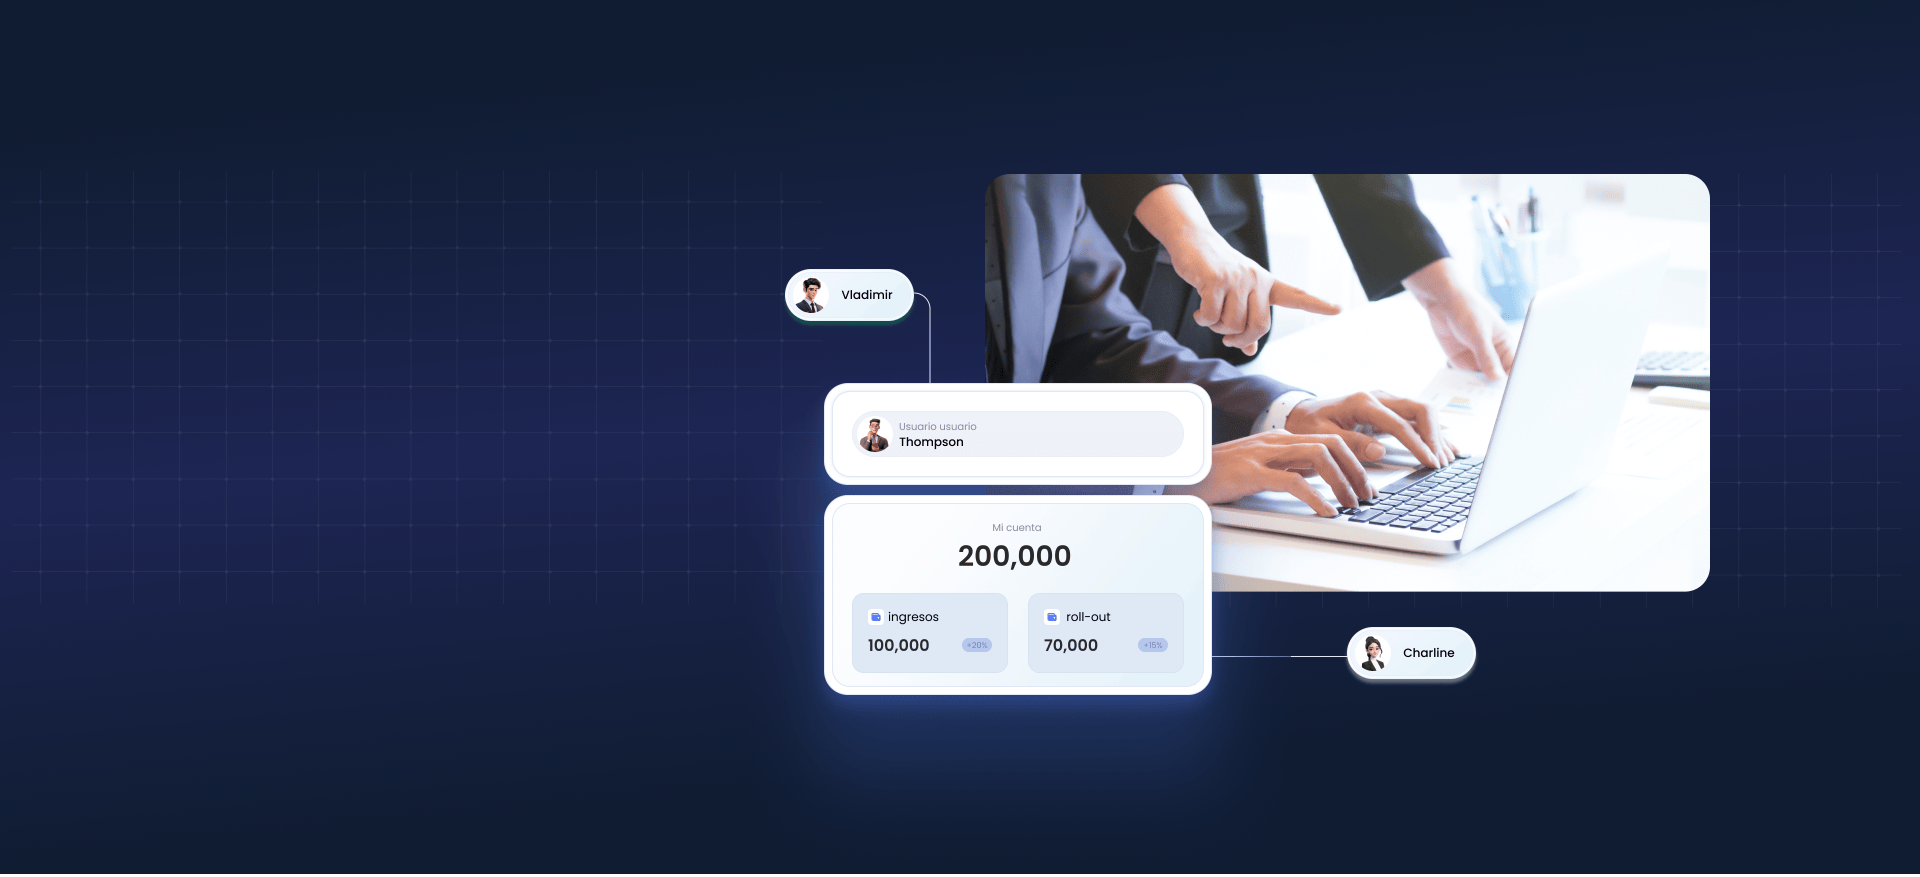
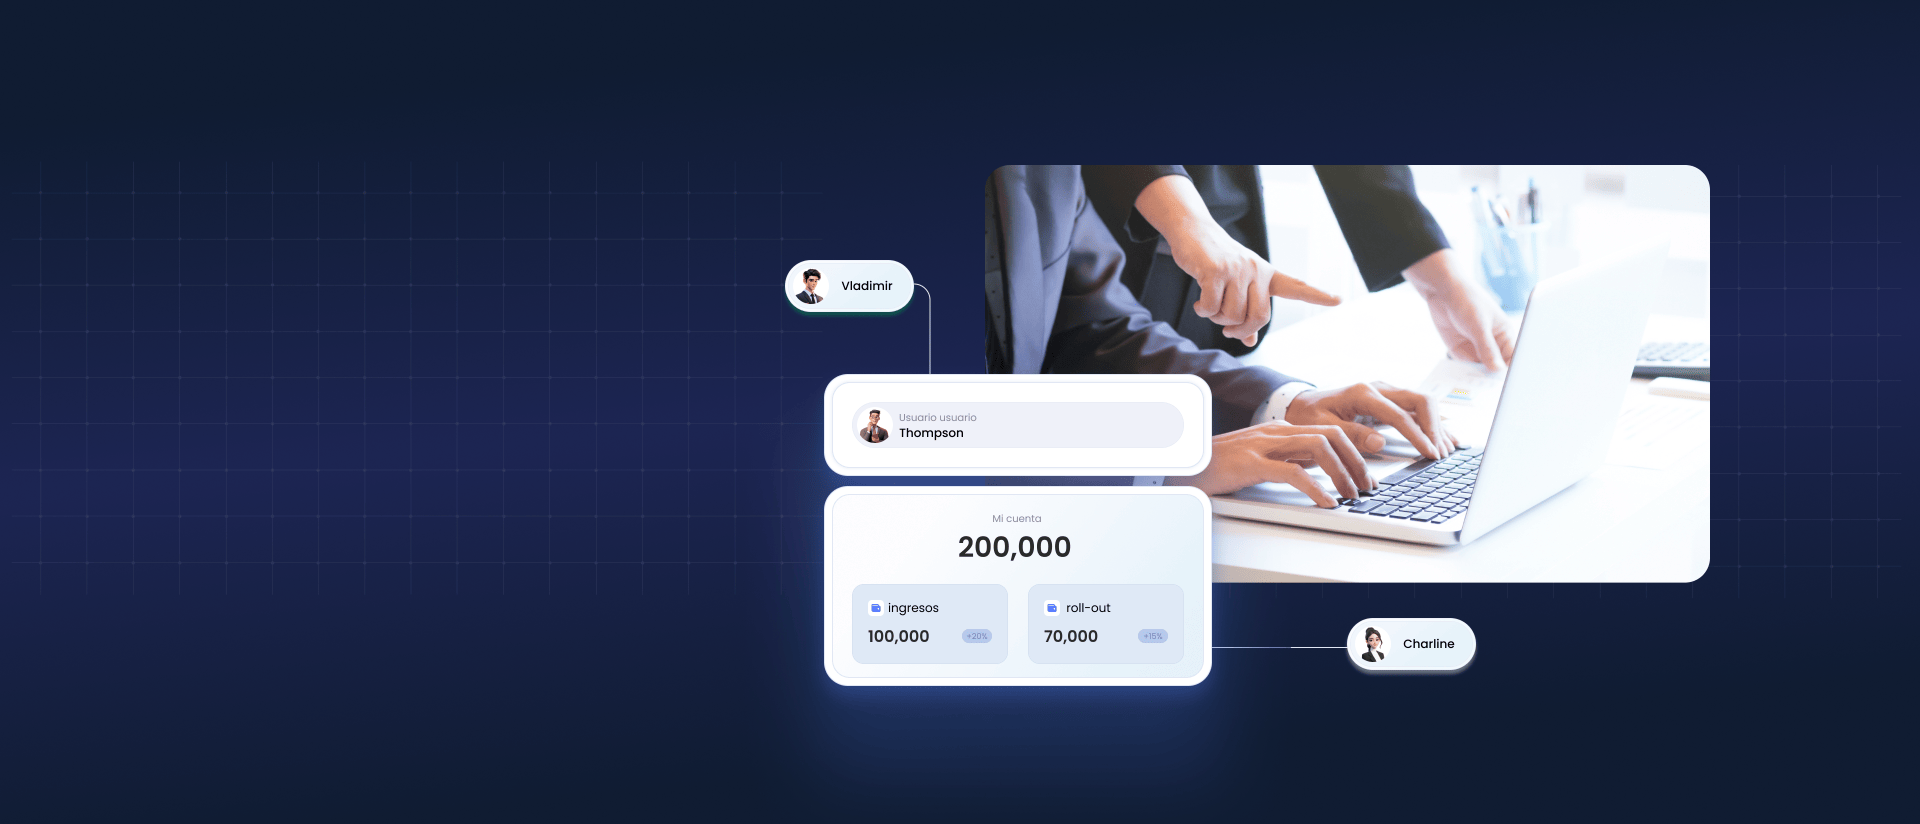
feat:picture

diff --git a/app/Payouts/page.tsx b/app/Payouts/page.tsx
@@ -640,7 +640,7 @@ export default function PayputsPage() {
               <div className="md:flex  md:gap-[41px] gap-[20px]">
                 <div className="md:max-w-[622px] md:max-h-[761px]">
                   <div className="md:min-h-[349px] md:max-h-[349px]  md:mb-[41px]  bg-[#F0F5FF] rounded-2xl px-[12px] lg:px-[61px] pt-[26px] lg:pt-[61px] pb-[20px] lg:pb-[69px] mb-[20px] text-[#000000]">
-                    <div className="font-medium text-[20px] md:text-[35px] md:leading-[36px]  lg:text-[34px] lg:leading-[43px]  xl:text-[60px] leading-[24px] xl:leading-[70px] mb-[1px] md:mb-[58px]">
+                    <div className="font-medium text-[20px] md:text-[35px] md:leading-[36px]  lg:text-[34px] lg:leading-[43px]  xl:text-[60px] leading-[24px] xl:leading-[70px] mb-[1px] md:mb-[58px] xl:mb-[30px]">
                       Faster Payouts, Lower Costs
                     </div>
                     <div className="text-[14px] md:text-[32px] leading-[24px] md:leading-[38px]  text-[#3B61B8]">

diff --git a/app/About/page.tsx b/app/About/page.tsx
@@ -181,11 +181,11 @@ export default function AboutPage() {
                   }}
                   isRequired
                   variant="bordered"
-                  errorMessage="Please enter your full Name"
+                  errorMessage="Please enter your full name"
                   label="Full Name"
                   labelPlacement="outside"
                   name="fullName"
-                  placeholder="Please enter your full Name"
+                  placeholder="Please enter your full name"
                   isClearable
                 />
                 <Input
@@ -298,7 +298,7 @@ export default function AboutPage() {
                   }}
                   isRequired
                   items={KnowData}
-                  label="How Did You Get To Know Us?*"
+                  label="How Did You Get To Know Us?"
                   labelPlacement="outside"
                   placeholder="Select"
                   name="howGetToKnowUs"

diff --git a/app/In/page.tsx b/app/In/page.tsx
@@ -187,14 +187,14 @@ export default function InPage() {
                           <path
                             id="Vector 85"
                             d="M4.19629 13.5977H21.9649"
-                            stroke="#06421D"
+                            stroke="#FF6600"
                             strokeWidth="1.5"
                             strokeLinecap="round"
                           />
                           <path
                             id="Rectangle 589"
                             d="M13.5039 4.38477L22.7401 13.6209C22.7791 13.66 22.7791 13.7233 22.7401 13.7623L13.5039 22.9985"
-                            stroke="#06421D"
+                            stroke="#FF6600"
                             strokeWidth="1.5"
                             strokeLinecap="round"
                           />

diff --git a/components/FooterBlock.tsx b/components/FooterBlock.tsx
@@ -73,7 +73,7 @@ export const FooterBlock = () => {
                 </div>
                 {i.child.map((s) => (
                   <NextLink
-                    className="block a-color-hover text-[14px] leading-[21px] text-white mb-[12px] md:mb-[16px] opacity-50 "
+                    className="block a-color-hover text-[14px] leading-[21px] text-[rgba(245,245,245,0.5)] mb-[12px] md:mb-[16px]"
                     key={s.id}
                     href={s.href}
                     target={s.target}

diff --git a/styles/globals.css b/styles/globals.css
@@ -161,7 +161,7 @@ body {
 .navbar-link:hover,
 .navbar-link-active,
 .navbar-link.active {
-  color: #3b61b8;
+  color: #ff6600;
 }
 
 .navbar-link:hover::after,
@@ -220,7 +220,7 @@ body {
   color: white;
 }
 .navbar-child-item:hover {
-  color: #3b61b8;
+  color: #ff6600;
 }
 
 .line {
@@ -483,7 +483,7 @@ body {
 }
 
 .a-color-hover:hover {
-  color: #3b61b8;
+  color: #ff6600;
 }
 
 /* animate */

diff --git a/config/site.ts b/config/site.ts
@@ -249,7 +249,7 @@ export const AppsList = [
   },
   {
     id: 5,
-    href: "mailto:super@PaylinkUS.com",
+    href: "mailto:support@paylinkus.io",
     target: "_blank",
   },
 ];
